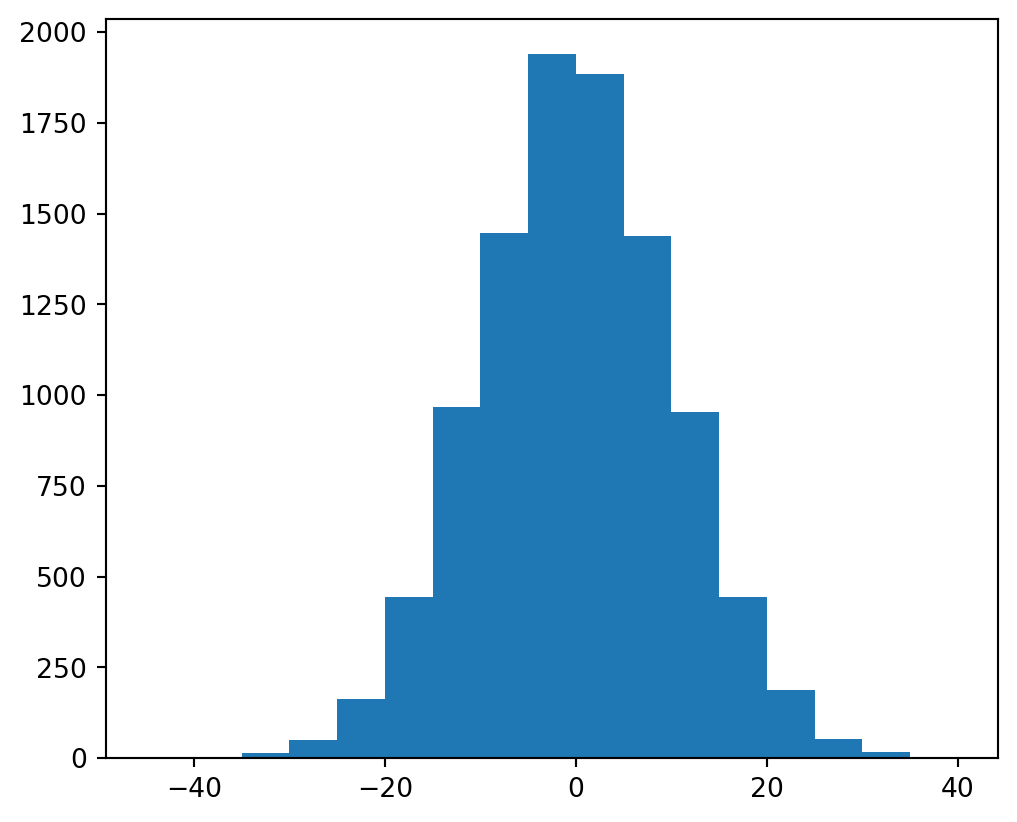
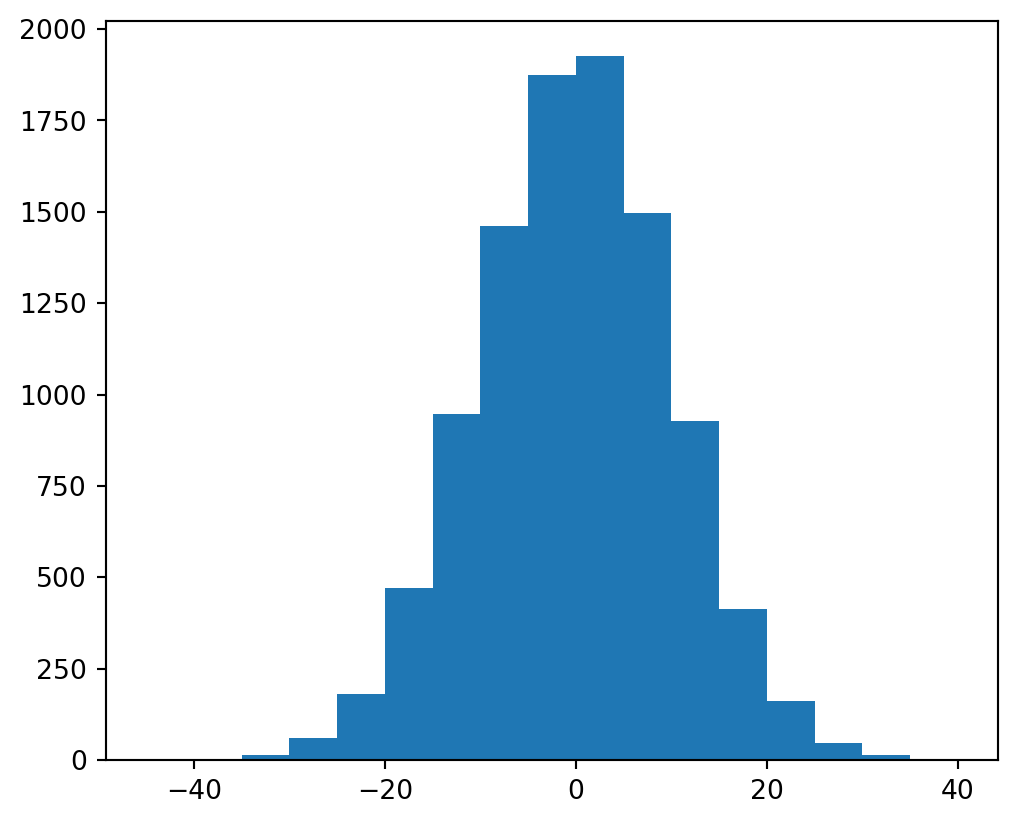
inference part B

diff --git a/c08_inferenceB/c08_inferenceB.html b/c08_inferenceB/c08_inferenceB.html
@@ -532,7 +532,7 @@
 <div class="sourceCode cell-code" id="cb2"><pre class="sourceCode python code-with-copy"><code class="sourceCode python"><span id="cb2-1"><a href="#cb2-1" aria-hidden="true" tabindex="-1"></a>plt.hist(null_mean_diffs, bins<span class="op">=</span>np.arange(<span class="op">-</span><span class="dv">45</span>, <span class="dv">45</span>, <span class="dv">5</span>))</span>
 <span id="cb2-2"><a href="#cb2-2" aria-hidden="true" tabindex="-1"></a>plt.show()</span></code><button title="Copy to Clipboard" class="code-copy-button"><i class="bi"></i></button></pre></div>
 <div class="cell-output cell-output-display">
-<p><img data-src="c08_inferenceB_files/figure-revealjs/cell-4-output-1.png" width="509" height="411"></p>
+<p><img data-src="c08_inferenceB_files/figure-revealjs/cell-4-output-1.png" width="509" height="412"></p>
 </div>
 </div>
 <div>
@@ -710,8 +710,8 @@
 <span id="cb5-4"><a href="#cb5-4" aria-hidden="true" tabindex="-1"></a><span class="bu">print</span>(<span class="ss">f'Mean of mean differences: </span><span class="sc">{</span>mu<span class="sc">: .2f}</span><span class="ss">'</span>)</span>
 <span id="cb5-5"><a href="#cb5-5" aria-hidden="true" tabindex="-1"></a><span class="bu">print</span>(<span class="ss">f'SD of mean differences: </span><span class="sc">{</span>sigma<span class="sc">: .2f}</span><span class="ss">'</span>)</span></code><button title="Copy to Clipboard" class="code-copy-button"><i class="bi"></i></button></pre></div>
 <div class="cell-output cell-output-stdout">
-<pre><code>Mean of mean differences:  0.05
-SD of mean differences:  10.14</code></pre>
+<pre><code>Mean of mean differences: -0.16
+SD of mean differences:  10.13</code></pre>
 </div>
 </div>
 <ul>
@@ -769,7 +769,7 @@ SD of mean differences:  10.14</code></pre>
 <div class="cell" data-execution_count="8">
 <div class="sourceCode cell-code" id="cb8"><pre class="sourceCode python code-with-copy"><code class="sourceCode python"><span id="cb8-1"><a href="#cb8-1" aria-hidden="true" tabindex="-1"></a><span class="bu">print</span>(<span class="ss">f'(</span><span class="sc">{</span>mu <span class="op">-</span> <span class="dv">2</span> <span class="op">*</span> sigma<span class="sc">: .2f}</span><span class="ss">, </span><span class="sc">{</span>mu <span class="op">+</span> <span class="dv">2</span> <span class="op">*</span> sigma<span class="sc">: .2f}</span><span class="ss">)'</span>)</span></code><button title="Copy to Clipboard" class="code-copy-button"><i class="bi"></i></button></pre></div>
 <div class="cell-output cell-output-stdout">
-<pre><code>(-20.22,  20.33)</code></pre>
+<pre><code>(-20.43,  20.11)</code></pre>
 </div>
 </div>
 <ul>
@@ -1336,7 +1336,7 @@ SD of mean differences:  10.14</code></pre>
 <p>We replace <span class="math inline">\(\sigma_x\)</span> by its estimator: <span class="math inline">\(S_x = \sqrt{\frac{1}{n_x - 1}\sum{(X_i - \overline{X})^2}}\)</span> and the same for <span class="math inline">\(\sigma_y\)</span>.</p>
 <p>We keep the SE estimator of <span class="math inline">\(\sqrt{\frac{S_x^2}{n_x} +\frac{S_y^2}{n_y}}\)</span>:</p>
 <p><span class="math inline">\(\frac{\overline{X} - \overline{Y} - (\mu_x- \mu_y)}{\sqrt{\frac{S_x^2}{n_x} +\frac{S_y^2}{n_y}}} \sim t_{df'}\)</span></p>
-<p>Where: <span class="math inline">\(df'={\frac{\left({\frac{S_x^2}{n_x}}+{\frac{S_y^2}{n_y}}\right)^{2}}{{\frac{\left(S_x^2/n_x\right)^2}{n_x-1}}+{\frac{\left(S_y^2/n_{2}\right)^{2}}{n_y-1}}}}\)</span></p>
+<p>Where: <span class="math inline">\(df'=\frac{\left(\frac{S_x^2}{n_x}+\frac{S_y^2}{n_y}\right)^{2}}{\frac{\left(S_x^2/n_x\right)^2}{n_x-1}+\frac{\left(S_y^2/n_{2}\right)^{2}}{n_y-1}}\)</span></p>
 <aside class="notes">
 <div style="direction:rtl; font-size:16px">
 
